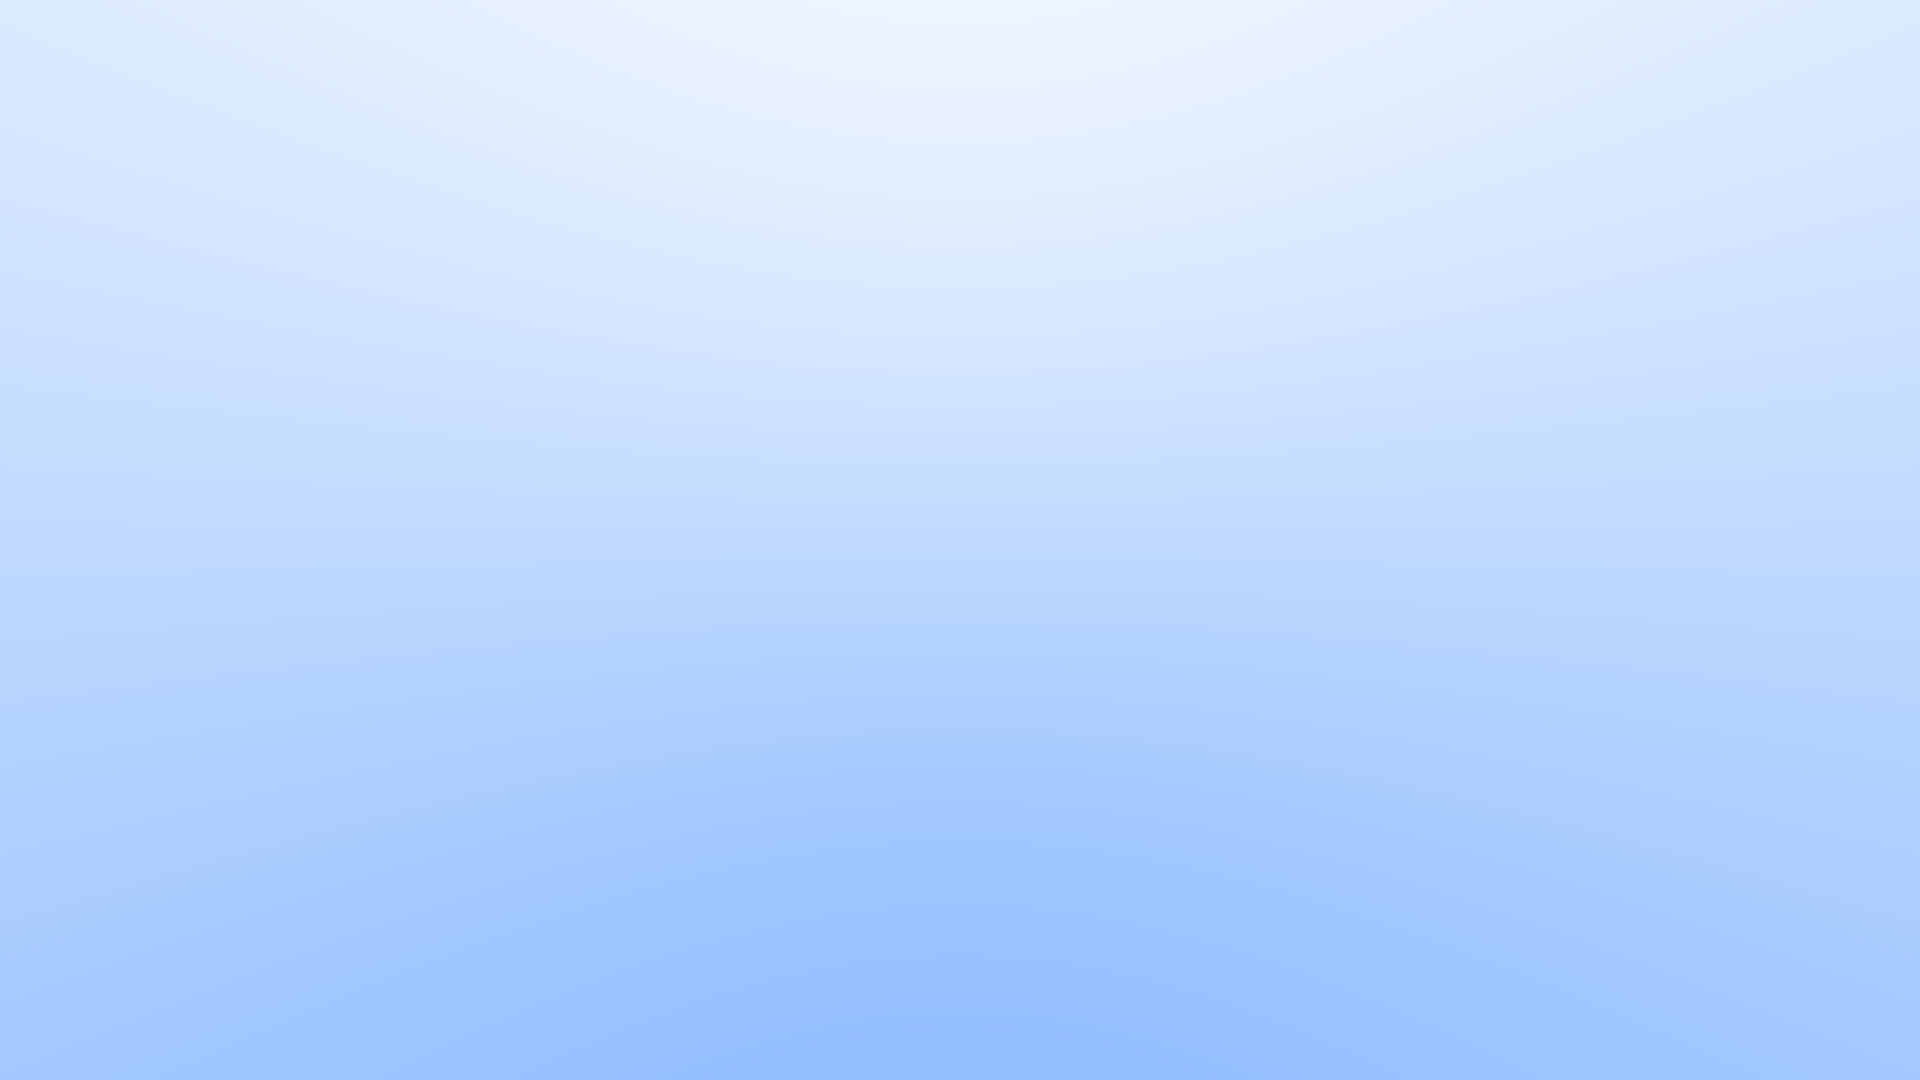
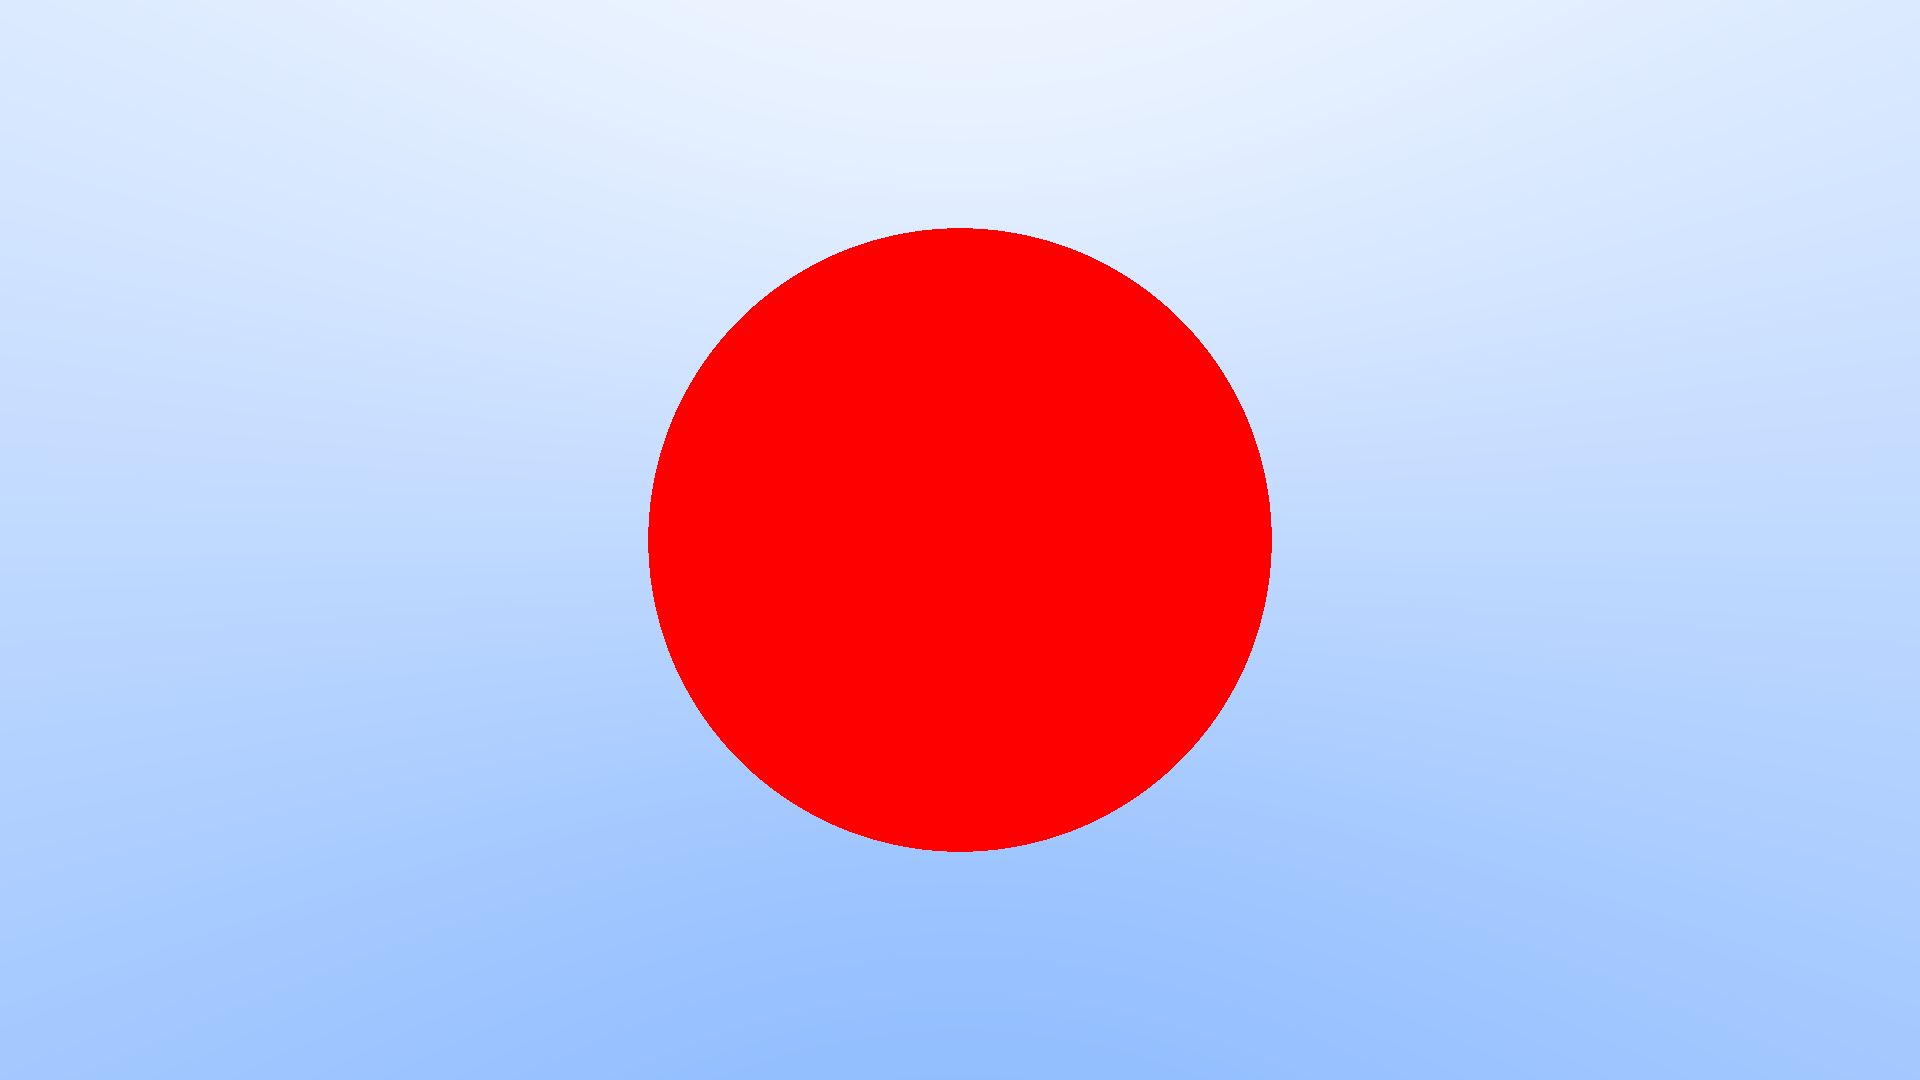
raytrace sphere

Changed region(s): [[0.3125, 0.2139, 0.6875, 0.7944]]

diff --git a/StaticTracer/StaticTracer/src/Graphics/Renderer.cpp b/StaticTracer/StaticTracer/src/Graphics/Renderer.cpp
@@ -5,9 +5,6 @@
 #include <Math/vec3.h>
 #include <Graphics/Ray.h>
 
-pt::Renderer::Renderer(Window _window) 
-  : window{ _window }, framebuffer{ window.getWidth(), window.getHeight() }
-{}
 
 math::vec3 skyboxColor(pt::Ray const& ray)
 {
@@ -18,6 +15,45 @@ math::vec3 skyboxColor(pt::Ray const& ray)
   float t{ 0.5f * (direction.y + 1.0f) };
   return math::lerp(skyColor, horizonColor, t);
 }
+
+bool hitSphere(math::vec3 const& center, float radius, pt::Ray const& ray)
+{
+  // Point from vector: Q + t * vector
+  // Sphere formula: 
+  // [C-P]*[C-P} = r^2
+  // [C- (Q+tv) ]*[C- (Q+tv) ] = r^2
+  // {t^2 * v*v} + {2tv(C-Q)} + {(C-Q)^2 - r^2} = 0
+  //     a            b               c
+
+  math::vec3 CQvec{ center - ray.getOrigin() };
+
+  // Quadratic equation formula
+  float a{ math::dot(ray.getDirection(), ray.getDirection()) };
+  float b{ 2.0f * math::dot(ray.getDirection(), CQvec) };
+  float c{ math::dot(CQvec, CQvec) - radius * radius };
+
+  float discriminant{ b*b - 4*a*c };
+  return discriminant >= 0.0f;
+}
+
+math::vec3 traceRay(pt::Ray const& ray)
+{
+  static const math::vec3 sphereCenter{ 0,0,-1 };
+  static const float radius{ 0.5 };
+
+  if (hitSphere(sphereCenter, radius, ray))
+  {
+    return { 1,0,0 };
+  }
+  else
+  {
+    return skyboxColor(ray);
+  }
+}
+
+pt::Renderer::Renderer(Window _window) 
+  : window{ _window }, framebuffer{ window.getWidth(), window.getHeight() }
+{}
 
 void pt::Renderer::render()
 {
@@ -44,7 +80,7 @@ void pt::Renderer::render()
       math::vec3 rayDirection{ pixelCenter - cameraPosition };
       pt::Ray ray{ cameraPosition, rayDirection };
 
-      Pixel pixel{ skyboxColor(ray) };
+      Pixel pixel{ traceRay(ray) };
 
       framebuffer.setPixel(x, y, pixel);
     }
